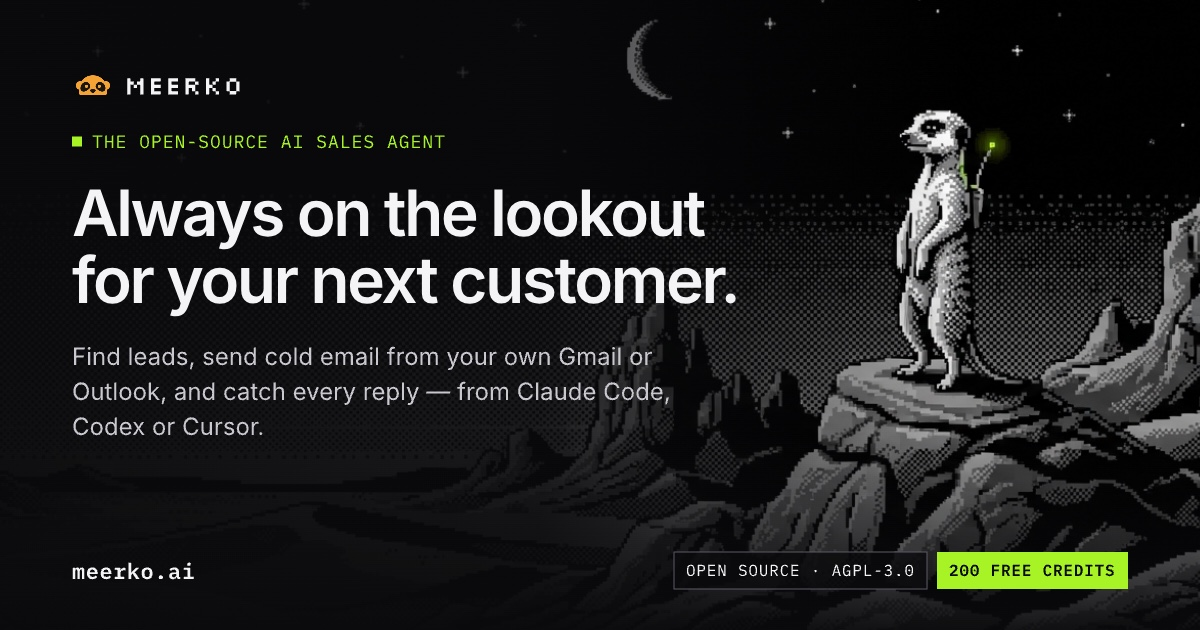
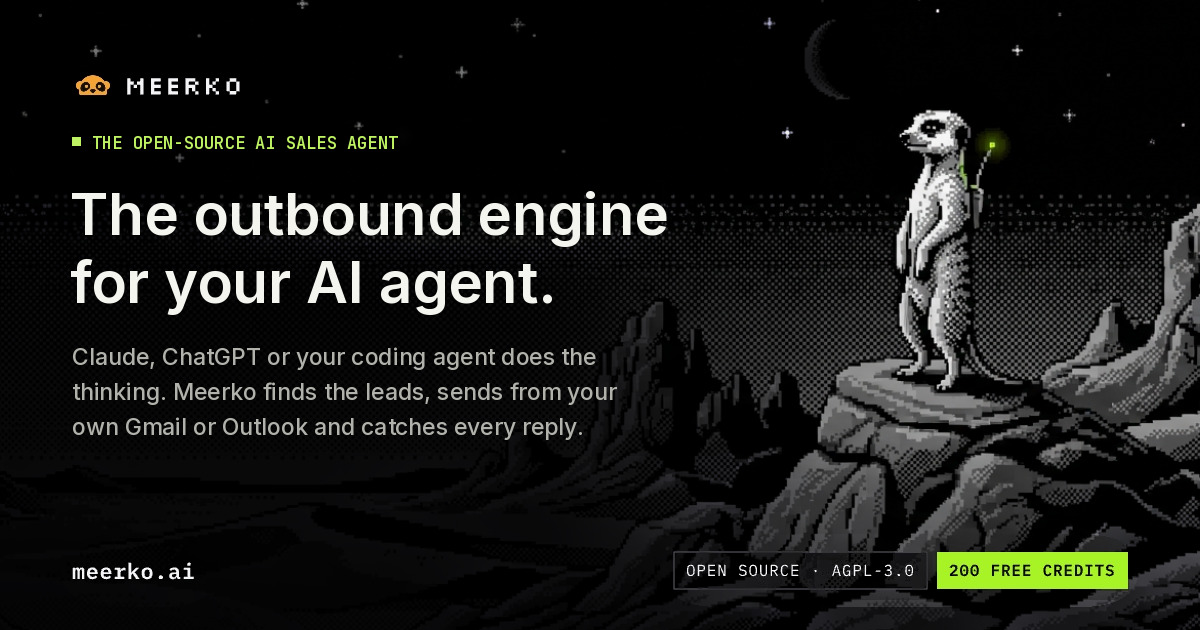
Share card and page title match the new headline

diff --git a/apps/web/src/app/layout.tsx b/apps/web/src/app/layout.tsx
@@ -14,8 +14,8 @@ const silkscreen = Silkscreen({ subsets: ["latin"], variable: "--font-silkscreen
 
 export const metadata: Metadata = {
   metadataBase: new URL(site.url),
-  // Targets "ai sales agent" (1.3k/mo US, KD 15, +140% YoY) and "ai sdr" (DataForSEO, Oct 2026).
-  title: "Meerko — the open-source AI sales agent",
+  // Leads with the headline (Iker, 2026-11-10); the description keeps "AI sales agent" and "AI SDR" for search.
+  title: "Meerko — the outbound engine for your AI agent",
   description:
     "Meerko is an open-source AI sales agent (AI SDR): find leads, send cold email from your own Gmail or Outlook and catch every reply, from Claude, ChatGPT or your coding agent.",
   icons: { icon: "/meerko-icon.svg" },
@@ -23,13 +23,13 @@ export const metadata: Metadata = {
   openGraph: {
     type: "website",
     siteName: "Meerko",
-    title: "Meerko — the open-source AI sales agent",
+    title: "Meerko — the outbound engine for your AI agent",
     description: "An AI SDR you run from Claude, ChatGPT or your coding agent: find leads, send from your own Gmail or Outlook, catch every reply. Open source.",
-    images: [{ url: "/og/meerko.jpg", width: 1200, height: 630, alt: "Meerko: always on the lookout for your next customer. The open-source AI sales agent." }],
+    images: [{ url: "/og/meerko.jpg", width: 1200, height: 630, alt: "Meerko: the outbound engine for your AI agent. The open-source AI sales agent." }],
   },
   twitter: {
     card: "summary_large_image",
-    title: "Meerko — the open-source AI sales agent",
+    title: "Meerko — the outbound engine for your AI agent",
     description: "An AI SDR you run from Claude, ChatGPT or your coding agent: find leads, send from your own Gmail or Outlook, catch every reply. Open source.",
     images: ["/og/meerko.jpg"],
   },
